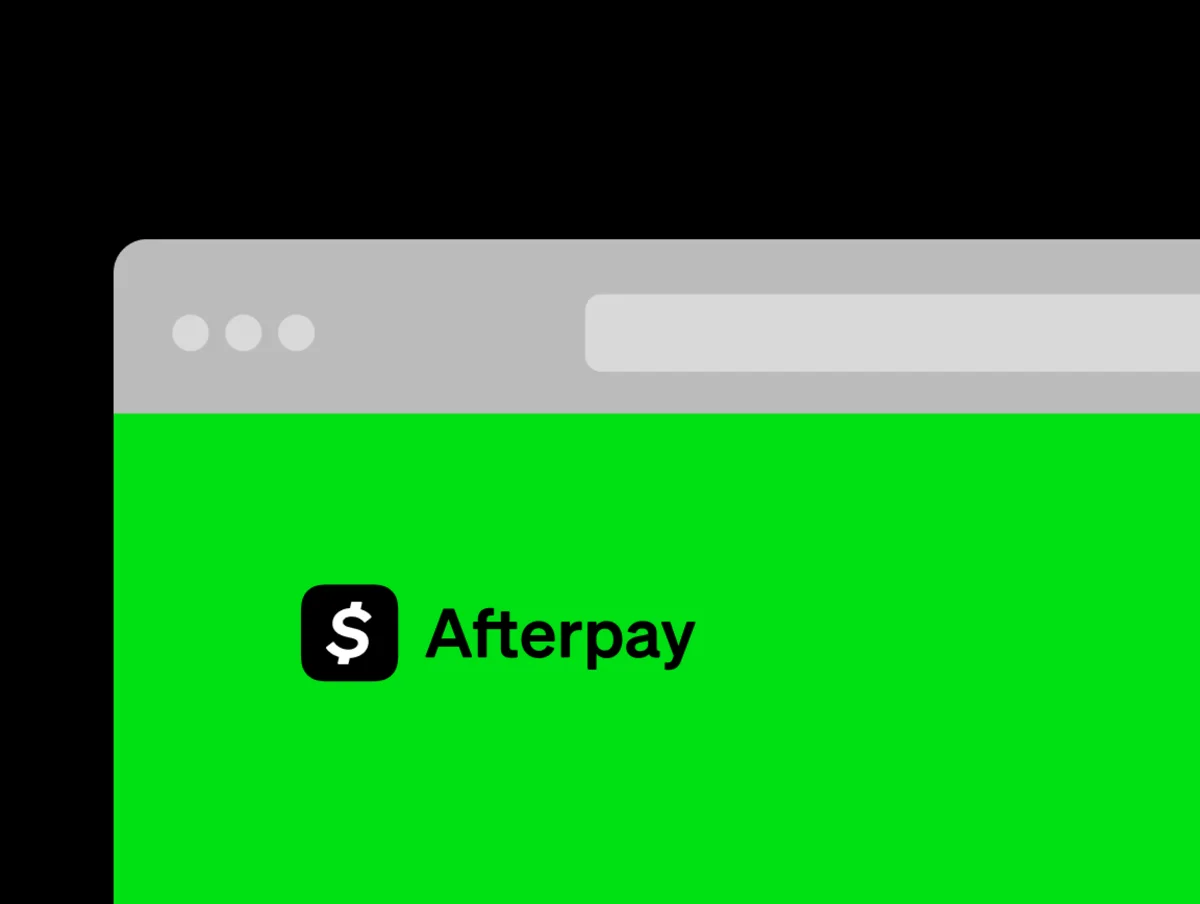
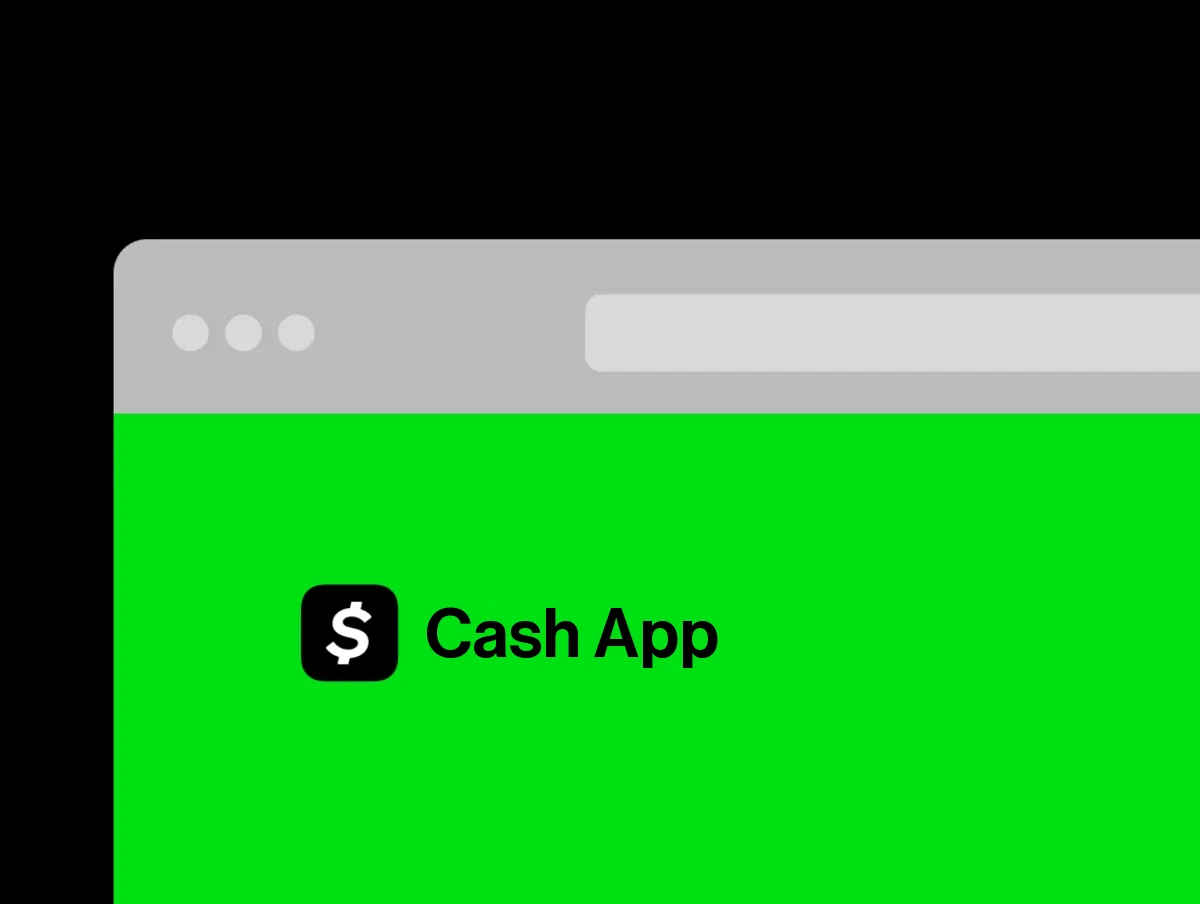
CRO artwork says Cash App instead of Afterpay (home thumbnail and case study hero)

Changed region(s): [[0.3392, 0.6504, 0.6167, 0.7434]]

diff --git a/index.html b/index.html
@@ -35,7 +35,7 @@
   <link rel="icon" href="/assets/icons/favicon-32.png" sizes="32x32" type="image/png">
   <link rel="apple-touch-icon" href="/assets/icons/apple-touch-icon.png">
   <link rel="stylesheet" href="styles.css?v=92">
-  <link rel="stylesheet" href="assets/landing.css?v=37">
+  <link rel="stylesheet" href="assets/landing.css?v=38">
 </head>
 <body>
   <header class="nav">
@@ -93,7 +93,7 @@
             </div>
           </div>
           <div class="intro__slide intro__slide--fit" data-slide="2" aria-hidden="true">
-            <img src="assets/img/home/afterpay-1.webp" alt="Afterpay logo on a browser window">
+            <img src="assets/img/home/afterpay-1.webp?v=2" alt="Cash App logo on a browser window">
             <div class="intro__cap">
               <div><h2>CRO tests to generate leads</h2><p>Afterpay</p></div>
               <a class="intro__view" href="/projectafterpayb2b" tabindex="-1">View <svg class="icon" viewBox="0 -960 960 960" aria-hidden="true" focusable="false"><path d="m256-240-56-56 384-384H240v-80h480v480h-80v-344L256-240Z"/></svg><span class="visually-hidden"> CRO tests to generate leads</span></a>
@@ -184,7 +184,7 @@
           <a class="card__link" href="/projectthreshold">See Project <svg class="icon icon--arrow" viewBox="0 -960 960 960" aria-hidden="true" focusable="false"><path d="m256-240-56-56 384-384H240v-80h480v480h-80v-344L256-240Z"/></svg></a>
       </li>
       <li class="card" data-filters="product-design research fintech">
-        <img class="card__img" src="assets/img/home/afterpay-1.webp" alt="Afterpay logo on a browser window" loading="lazy" decoding="async">
+        <img class="card__img" src="assets/img/home/afterpay-1.webp?v=2" alt="Cash App logo on a browser window" loading="lazy" decoding="async">
         <h3 class="card__title">CRO tests to generate leads</h3>
         <p class="card__client">Afterpay</p>
         <ul class="tags"><li>Conversion rate optimisation</li><li>UX</li></ul>

diff --git a/projectafterpayb2b.html b/projectafterpayb2b.html
@@ -60,7 +60,7 @@
       </dl>
     </header>
 
-    <img class="case__hero" src="assets/img/cases/afterpay-1.webp?v=3" alt="The same sign-up page in two regional brands: Afterpay in green, Clearpay in mint, each with the lead form beside the headline" decoding="async">
+    <img class="case__hero" src="assets/img/cases/afterpay-1.webp?v=4" alt="The same sign-up page in two regional brands: Cash App in green, Clearpay in mint, each with the lead form beside the headline" decoding="async">
 
     <section class="case__row" aria-labelledby="problem">
       <h2 class="section-title" id="problem" data-reveal>The problem</h2>
